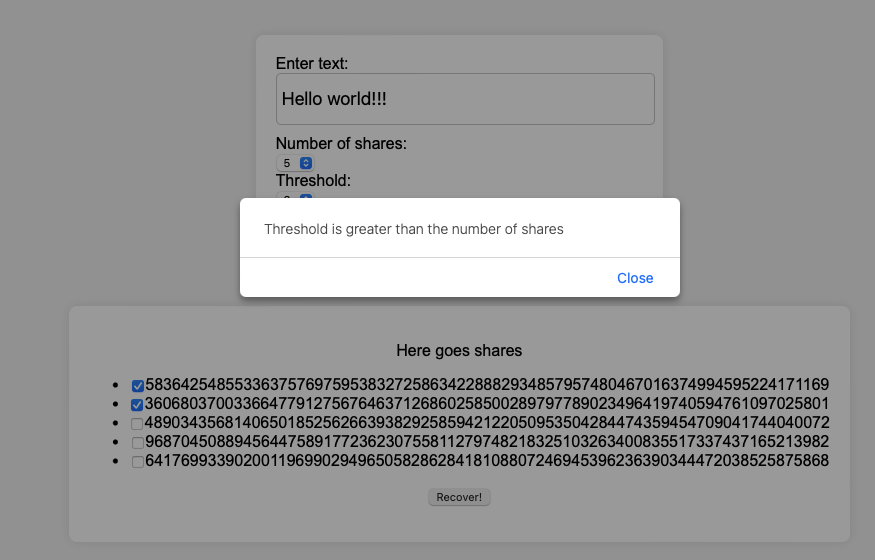
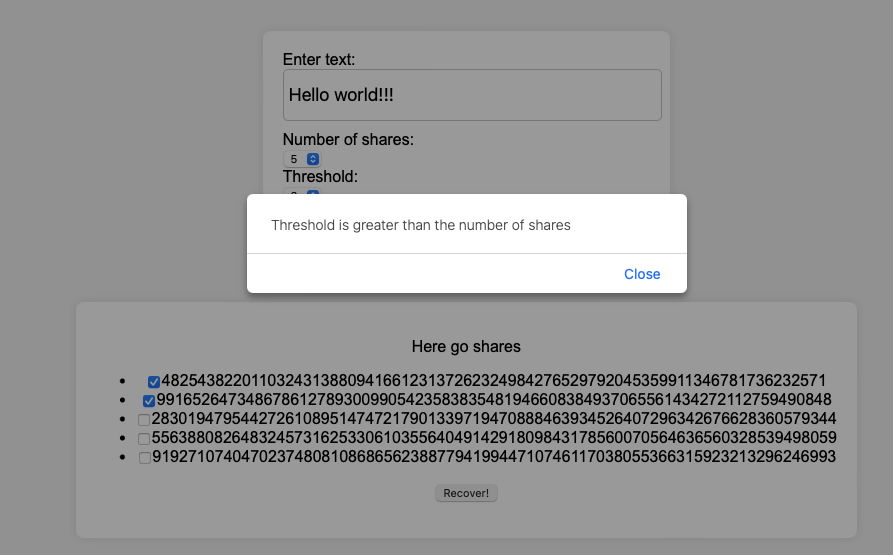
README extended

diff --git a/index.html b/index.html
@@ -179,7 +179,7 @@
         </form>
         <section>
             <div class="shares">
-            <p id="container">Here goes shares</p>
+            <p id="container">Here go shares</p>
             </div>
         </section>
     </div>

diff --git a/README.md b/README.md
@@ -38,7 +38,6 @@ Components:
 
 ![Step 4](images/step4.png)
 
-
 # Some interesting challanges/things to consider 
 
 TODO
